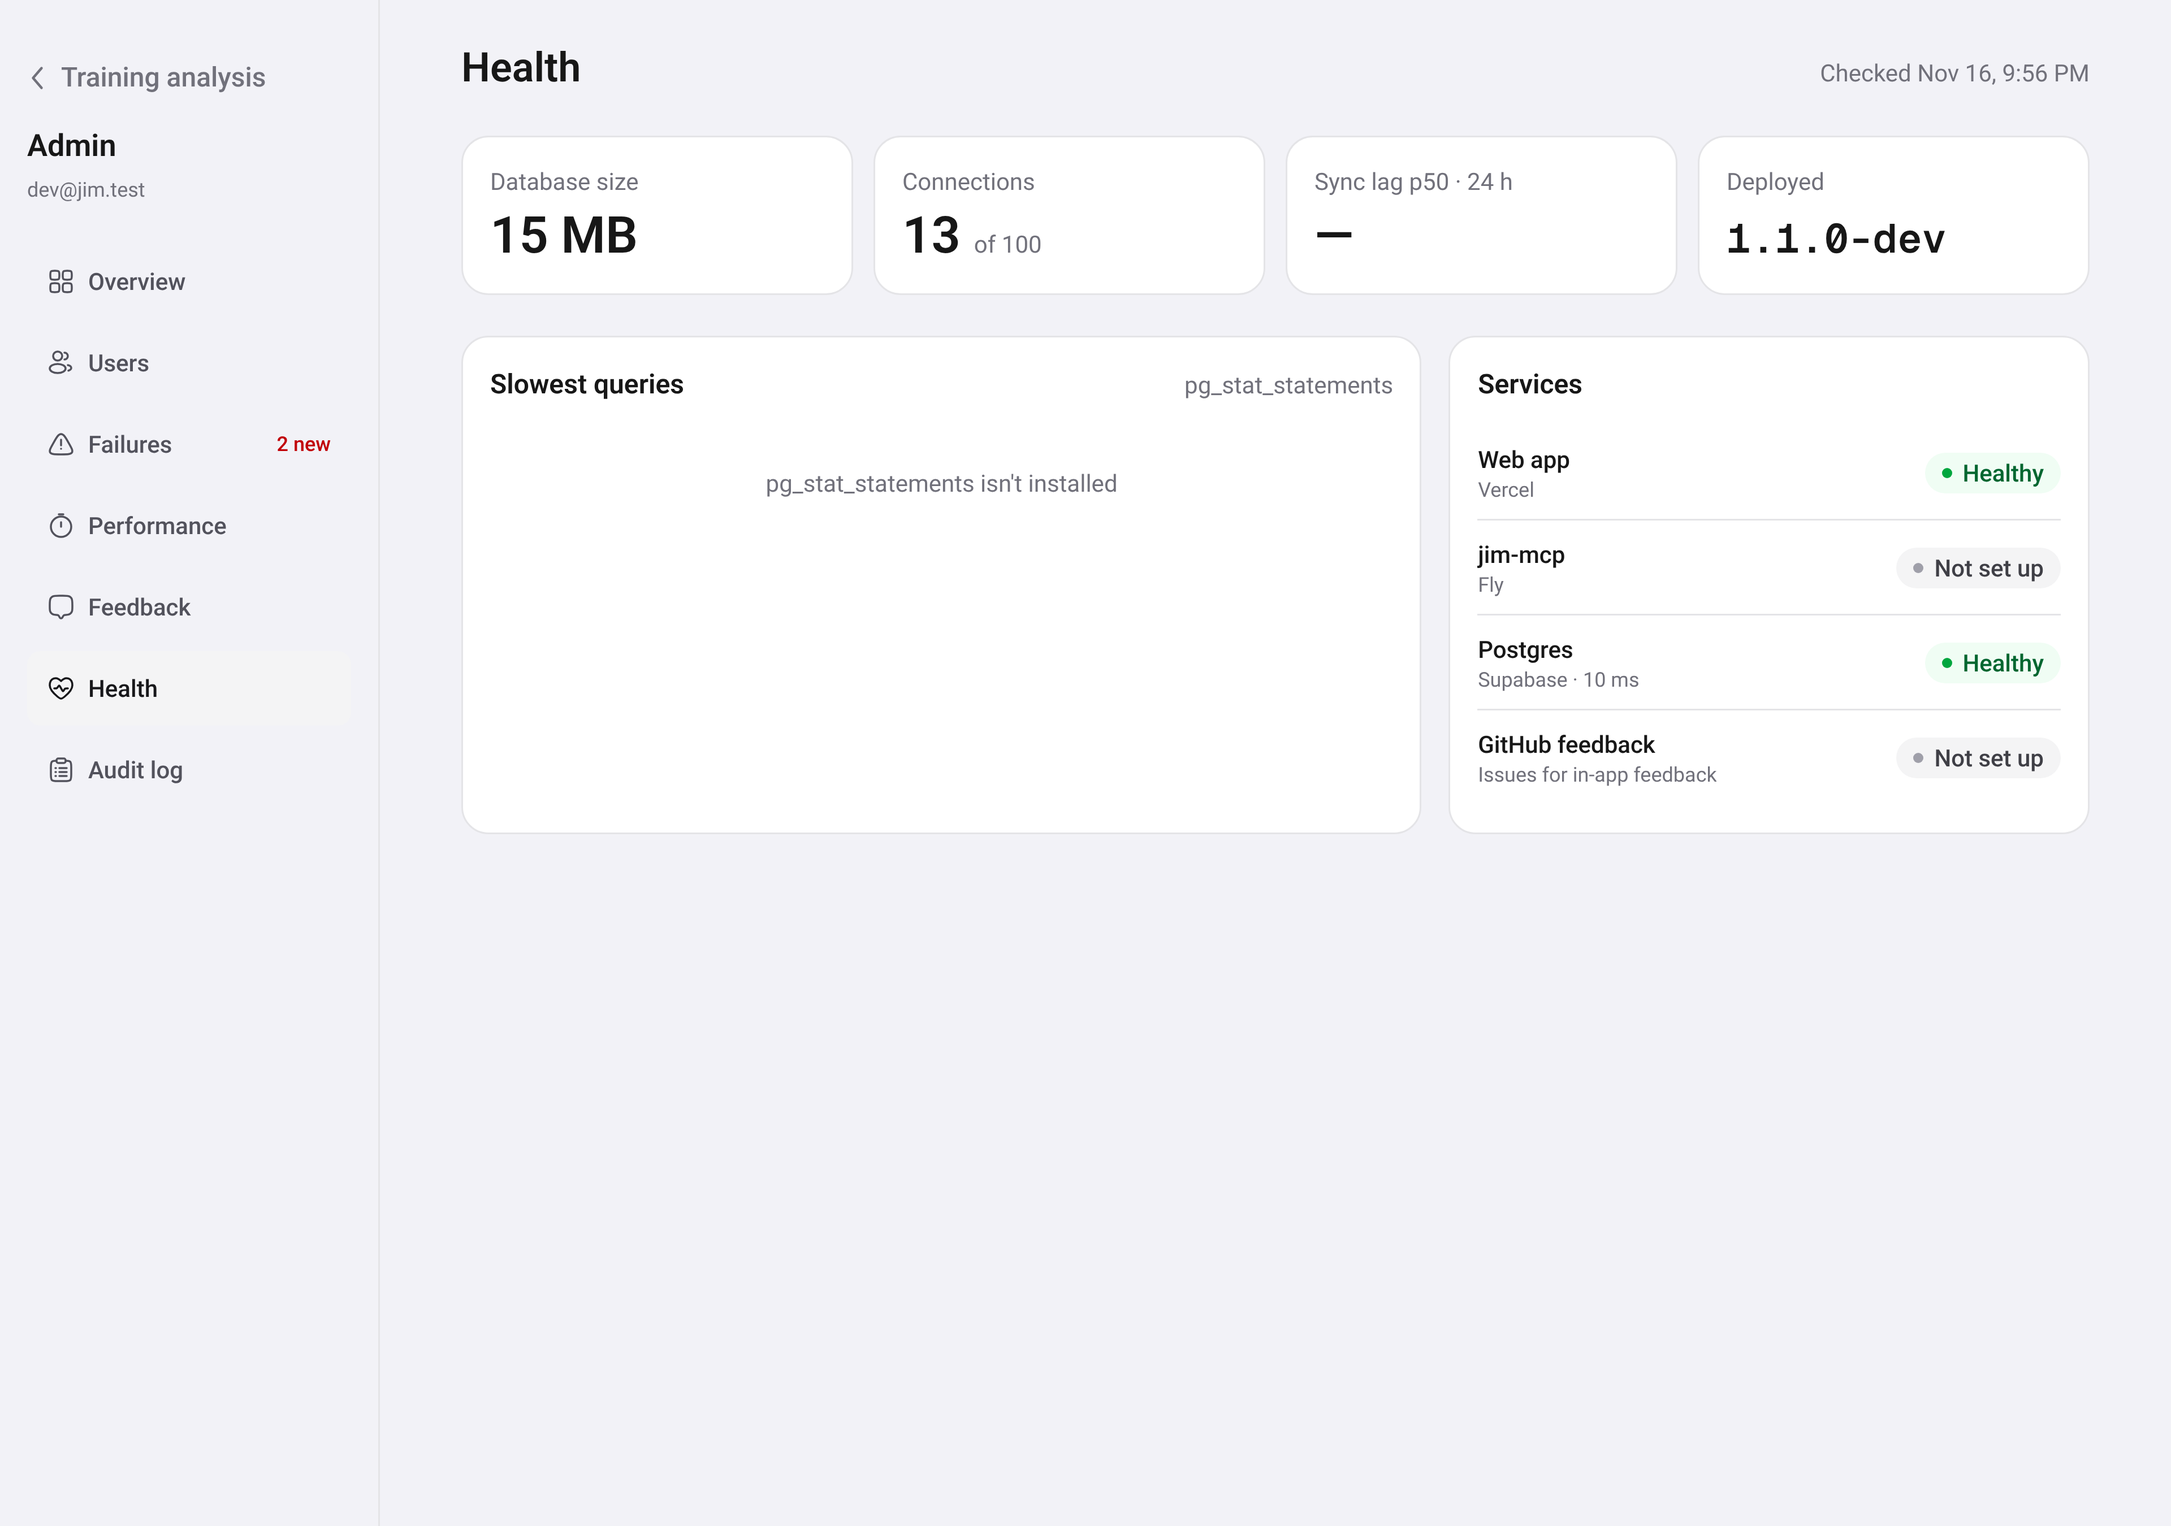
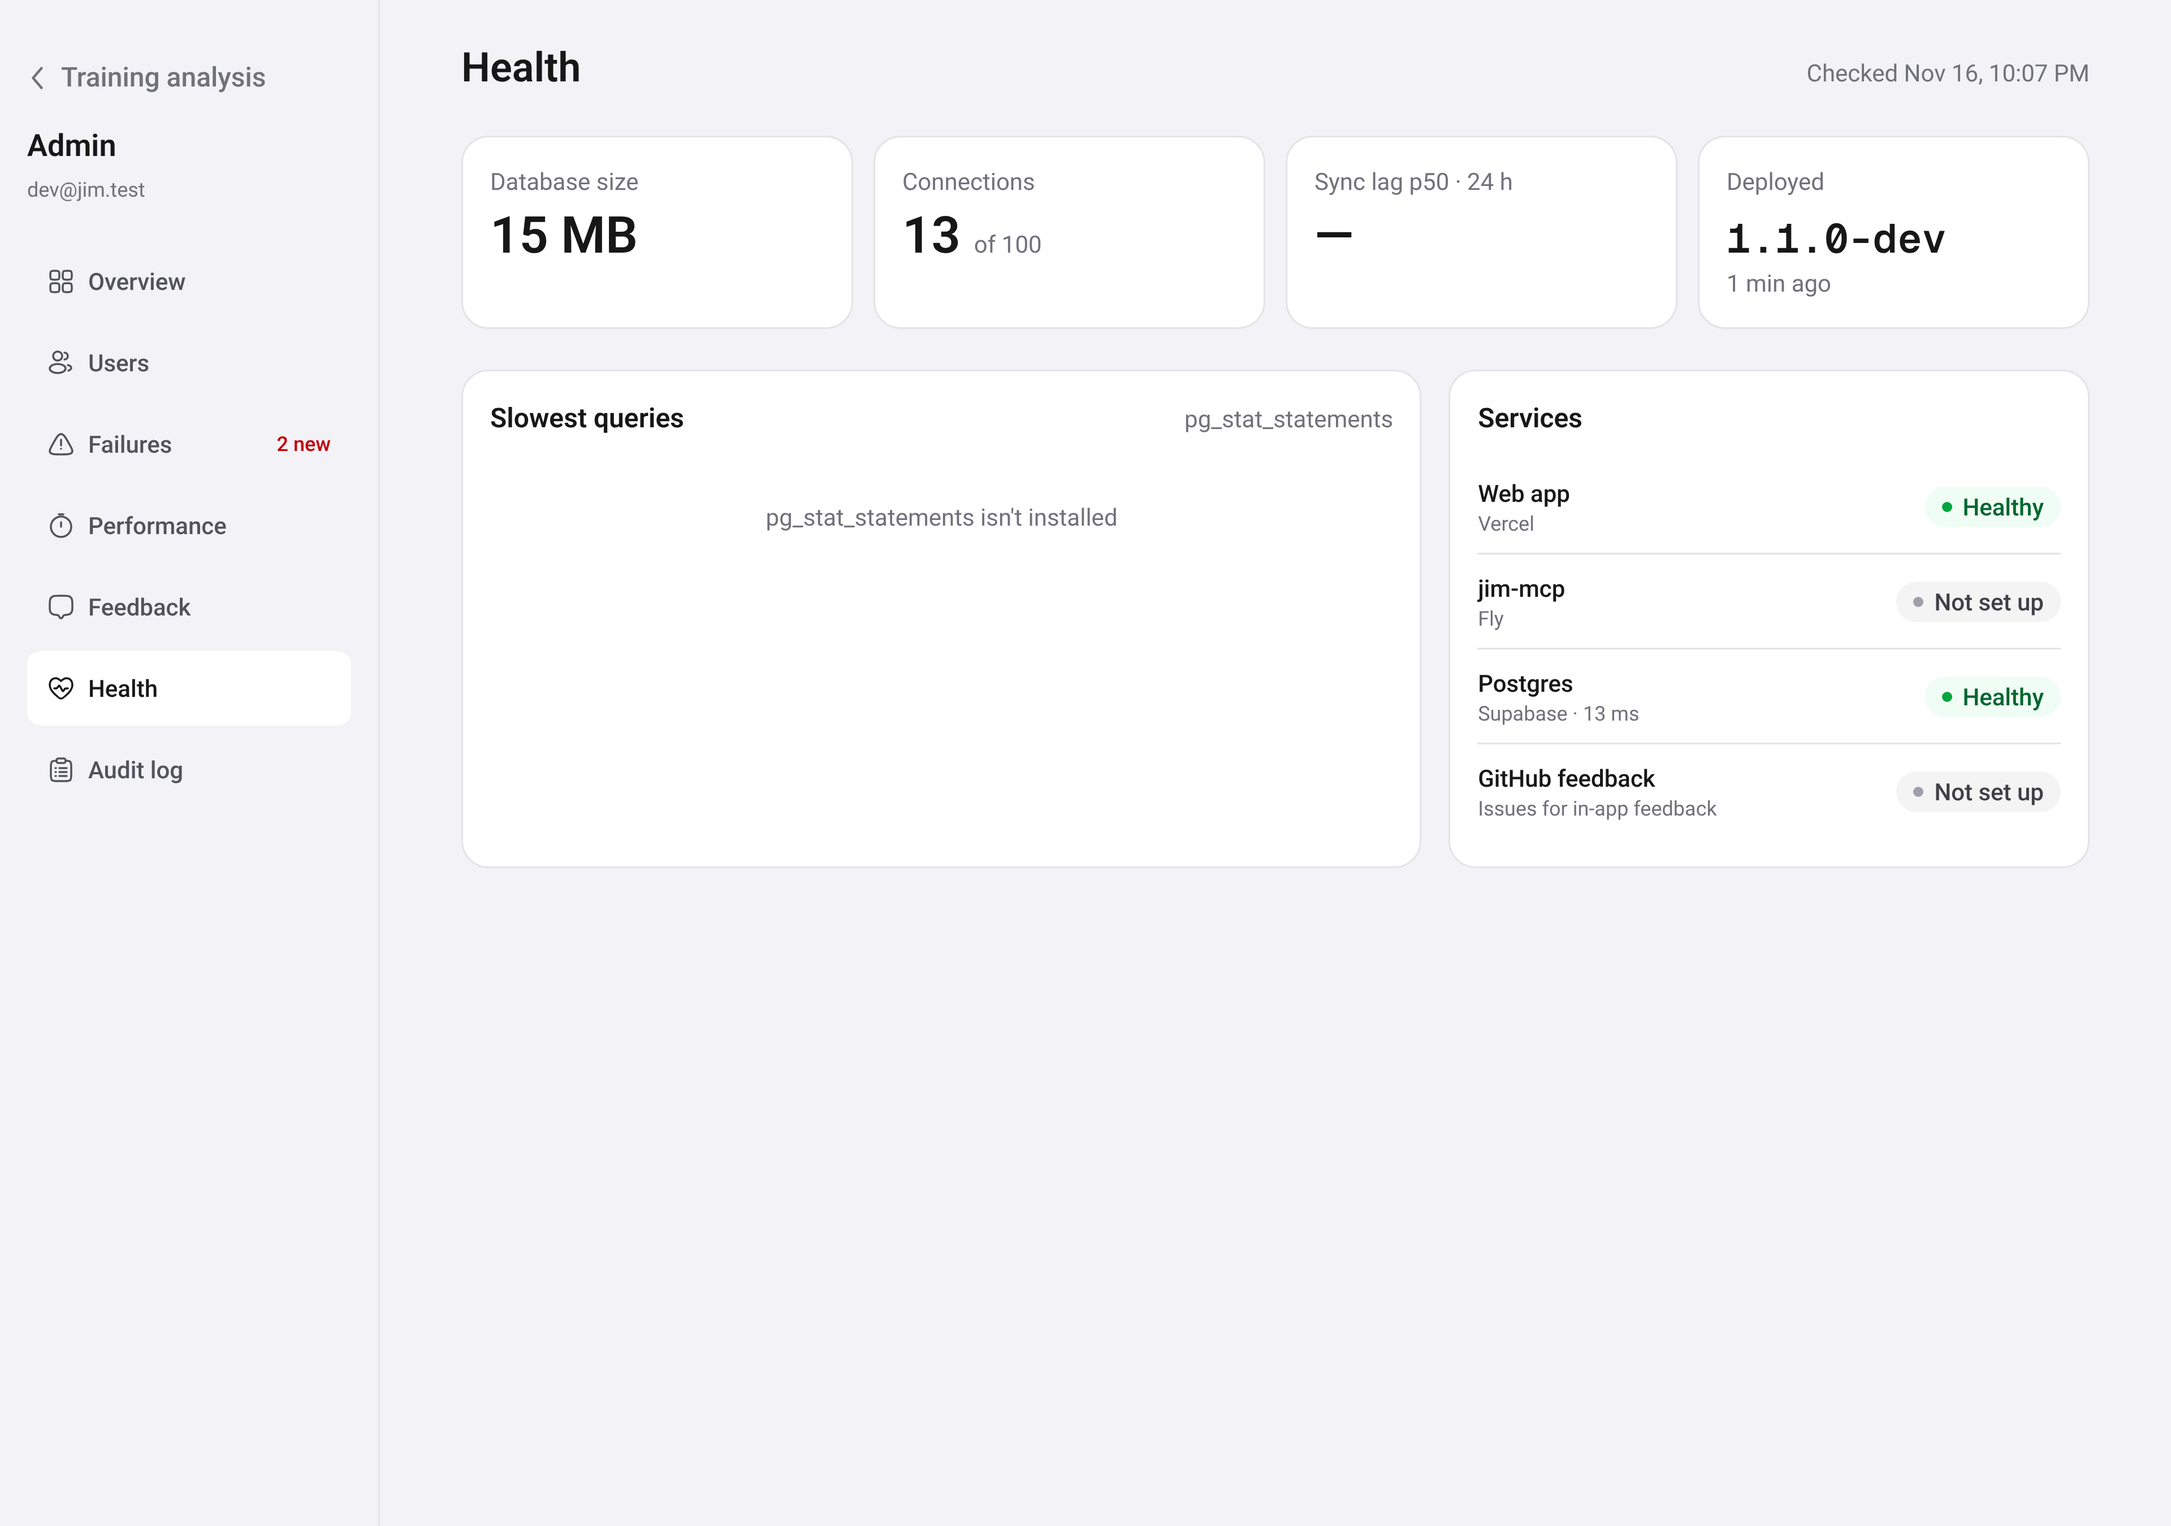
Admin dashboards: review fixes (#810)
Record the open only once the account row exists and in a savepoint, so a
usage count can't fail a sync pull. Add DAU/WAU/MAU, the full user count on
a failure, filters kept on the way back, and the deploy time on Health.

Claude-Session: https://claude.ai/code/session_01SR5G2ZpwwgZmQJhERtt7qa

diff --git a/apps/web/lib/admin/overview-data.ts b/apps/web/lib/admin/overview-data.ts
@@ -25,6 +25,11 @@ export interface OverviewData {
   dailyOpened: number[];
   dailyTrained: number[];
   dailyWorkouts: number[];
+  /** Distinct accounts over the last day, 7 days and 30 days, whatever the range. */
+  actives: {
+    opened: { day: number; week: number; month: number };
+    trained: { day: number; week: number; month: number };
+  };
   /** The version each account opened last, over the last 7 days. */
   versions: VersionShare[];
 }
@@ -80,6 +85,28 @@ export async function loadOverview(
           WHERE deleted_at IS NULL AND ended_at > ${prevStart} AND ended_at <= ${start}) AS workouts_prev
     `),
   );
+  const [active] = rowsOf(
+    await db.execute<Record<string, number | string>>(sql`
+      SELECT
+        (SELECT count(DISTINCT user_id) FROM app_opens
+          WHERE day >= (${nowIso}::timestamptz AT TIME ZONE 'utc')::date) AS opened_day,
+        (SELECT count(DISTINCT user_id) FROM app_opens
+          WHERE day > (${nowIso}::timestamptz - interval '7 days')::date) AS opened_week,
+        (SELECT count(DISTINCT user_id) FROM app_opens
+          WHERE day > (${nowIso}::timestamptz - interval '30 days')::date) AS opened_month,
+        (SELECT count(DISTINCT user_id) FROM sets WHERE deleted_at IS NULL
+          AND completed_at > ${nowIso}::timestamptz - interval '1 day') AS trained_day,
+        (SELECT count(DISTINCT user_id) FROM sets WHERE deleted_at IS NULL
+          AND completed_at > ${nowIso}::timestamptz - interval '7 days') AS trained_week,
+        (SELECT count(DISTINCT user_id) FROM sets WHERE deleted_at IS NULL
+          AND completed_at > ${nowIso}::timestamptz - interval '30 days') AS trained_month
+    `),
+  );
+  const actives = (prefix: "opened" | "trained") => ({
+    day: Number(active?.[`${prefix}_day`] ?? 0),
+    week: Number(active?.[`${prefix}_week`] ?? 0),
+    month: Number(active?.[`${prefix}_month`] ?? 0),
+  });
   const kpi = (name: string): OverviewKpi => ({
     current: Number(kpis?.[name] ?? 0),
     previous: Number(kpis?.[`${name}_prev`] ?? 0),
@@ -132,6 +159,7 @@ export async function loadOverview(
     dailyOpened: fillDays(days, opened),
     dailyTrained: fillDays(days, trained),
     dailyWorkouts: fillDays(days, workouts),
+    actives: { opened: actives("opened"), trained: actives("trained") },
     versions: versionSpread(versions),
   };
 }

diff --git a/apps/web/components/admin/admin-overview.tsx b/apps/web/components/admin/admin-overview.tsx
@@ -97,6 +97,35 @@ export function AdminOverview({
           </AdminCard>
         </div>
         <div className="flex min-w-0 flex-col gap-4">
+          <AdminCard title="Active users">
+            <table className="w-full text-sm">
+              <thead>
+                <tr className="text-xs text-zinc-500">
+                  <th className="pb-2 text-left font-normal">
+                    <span className="sr-only">Measure</span>
+                  </th>
+                  <th className="pb-2 text-right font-normal">DAU</th>
+                  <th className="pb-2 text-right font-normal">WAU</th>
+                  <th className="pb-2 text-right font-normal">MAU</th>
+                </tr>
+              </thead>
+              <tbody>
+                {(
+                  [
+                    ["Opened", data.actives.opened],
+                    ["Trained", data.actives.trained],
+                  ] as const
+                ).map(([label, counts]) => (
+                  <tr key={label} className="border-t border-zinc-200 dark:border-zinc-800">
+                    <td className="py-2">{label}</td>
+                    <td className="py-2 text-right tabular-nums">{NUMBER.format(counts.day)}</td>
+                    <td className="py-2 text-right tabular-nums">{NUMBER.format(counts.week)}</td>
+                    <td className="py-2 text-right tabular-nums">{NUMBER.format(counts.month)}</td>
+                  </tr>
+                ))}
+              </tbody>
+            </table>
+          </AdminCard>
           <AdminCard title="App versions" aside="Last 7 days">
             {data.versions.length === 0 ? (
               <p className="text-sm text-zinc-500">No opens yet</p>

diff --git a/apps/web/lib/admin/failures-data.ts b/apps/web/lib/admin/failures-data.ts
@@ -207,6 +207,8 @@ export interface FailureDetail {
   name: string;
   message: string | null;
   events: number;
+  /** Every account that hit it; `users` lists the top 50. */
+  userCount: number;
   firstSeenAt: string;
   lastSeenAt: string;
   users: { id: string; label: string; events: number }[];
@@ -243,8 +245,13 @@ export async function loadFailureDetail(
   if (!latest) return null;
 
   const [summary] = [
-    ...(await db.execute<{ events: number; first_seen: Date | string; last_seen: Date | string }>(
-      sql`SELECT count(*)::int AS events, min(created_at) AS first_seen, max(created_at) AS last_seen
+    ...(await db.execute<{
+      events: number;
+      users: number;
+      first_seen: Date | string;
+      last_seen: Date | string;
+    }>(
+      sql`SELECT count(*)::int AS events, count(DISTINCT user_id)::int AS users, min(created_at) AS first_seen, max(created_at) AS last_seen
         FROM telemetry_events WHERE fingerprint = ${fingerprint}`,
     )),
   ];
@@ -270,6 +277,7 @@ export async function loadFailureDetail(
     name: latest.name,
     message: latest.message,
     events: Number(summary?.events ?? recent.length),
+    userCount: Number(summary?.users ?? 0),
     firstSeenAt: iso(summary?.first_seen ?? latest.created_at),
     lastSeenAt: iso(summary?.last_seen ?? latest.created_at),
     users: users.map((row) => ({ id: row.id, label: row.label, events: Number(row.events) })),

diff --git a/apps/web/components/admin/admin-failure-detail.tsx b/apps/web/components/admin/admin-failure-detail.tsx
@@ -16,11 +16,18 @@ function extraOf(detail: unknown): string | null {
 }
 
 /** One failure group (issue #810): who hit it, on which versions, and its latest stacks. */
-export function AdminFailureDetail({ detail }: { detail: FailureDetail }) {
+export function AdminFailureDetail({
+  detail,
+  backHref,
+}: {
+  detail: FailureDetail;
+  /** The list with the filters it was opened from. */
+  backHref: string;
+}) {
   return (
     <>
       <Link
-        href="/admin/failures"
+        href={backHref}
         className="-ml-1 flex min-h-11 items-center gap-1 self-start pr-3 text-sm font-medium text-zinc-500"
       >
         <ChevronLeft className="h-4 w-4" strokeWidth={1.75} aria-hidden="true" />
@@ -38,7 +45,7 @@ export function AdminFailureDetail({ detail }: { detail: FailureDetail }) {
       </div>
       <dl className="grid grid-cols-2 gap-4 rounded-2xl border border-zinc-200 bg-white p-4 text-sm md:grid-cols-4 dark:border-zinc-800 dark:bg-zinc-900">
         <Fact label="Events">{detail.events}</Fact>
-        <Fact label="Users">{detail.users.length}</Fact>
+        <Fact label="Users">{detail.userCount}</Fact>
         <Fact label="First seen">
           <LocalDateTime iso={detail.firstSeenAt} />
         </Fact>

diff --git a/apps/web/app/admin/(console)/failures/[fingerprint]/page.tsx b/apps/web/app/admin/(console)/failures/[fingerprint]/page.tsx
@@ -1,12 +1,19 @@
+import { dashboardHref } from "@/components/admin/admin-dashboard-ui";
 import { AdminFailureDetail } from "@/components/admin/admin-failure-detail";
-import { loadFailureDetail } from "@/lib/admin/failures-data";
+import { TELEMETRY_RANGES, pickRange } from "@/lib/admin/dashboard";
+import { loadFailureDetail, pickFailureSource } from "@/lib/admin/failures-data";
 import { requireAdmin } from "@/lib/admin/load-access";
 import { notFound } from "next/navigation";
 
 export default async function AdminFailurePage(props: PageProps<"/admin/failures/[fingerprint]">) {
   await requireAdmin();
-  const { fingerprint } = await props.params;
+  const [{ fingerprint }, searchParams] = await Promise.all([props.params, props.searchParams]);
   const detail = await loadFailureDetail(decodeURIComponent(fingerprint).slice(0, 100));
   if (!detail) notFound();
-  return <AdminFailureDetail detail={detail} />;
+  const range = pickRange(TELEMETRY_RANGES, searchParams.range, "7d");
+  const backHref = dashboardHref("/admin/failures", {
+    source: pickFailureSource(searchParams.source),
+    range: range.id === "7d" ? null : range.id,
+  });
+  return <AdminFailureDetail detail={detail} backHref={backHref} />;
 }

diff --git a/apps/web/lib/admin/__tests__/dashboards.test.ts b/apps/web/lib/admin/__tests__/dashboards.test.ts
@@ -91,6 +91,9 @@ describe.skipIf(!process.env.TEST_DATABASE_URL)("admin dashboards (#810)", () =>
     expect(overview.days).toHaveLength(7);
     expect(overview.days.at(-1)).toBe("2026-11-16");
     expect(overview.dailyOpened).toEqual([0, 0, 0, 1, 0, 1, 1]);
+    expect(overview.actives.opened).toEqual({ day: 1, week: 2, month: 2 });
+    // Her one set was exactly a day ago, so it falls just outside today.
+    expect(overview.actives.trained).toEqual({ day: 0, week: 1, month: 1 });
     expect(overview.dailyTrained).toEqual([0, 0, 0, 0, 0, 1, 0]);
     expect(overview.dailyWorkouts).toEqual([0, 0, 0, 0, 0, 1, 0]);
     // Each account counts once, on the version it opened last.
@@ -120,6 +123,7 @@ describe.skipIf(!process.env.TEST_DATABASE_URL)("admin dashboards (#810)", () =>
   it("opens one group with its users and occurrences", async () => {
     const detail = await loadFailureDetail("old-group", db);
     expect(detail?.events).toBe(3);
+    expect(detail?.userCount).toBe(2);
     expect(detail?.users.map((user) => user.label)).toEqual(["maya", "theo"]);
     expect(detail?.recent).toHaveLength(3);
     expect(await loadFailureDetail("missing", db)).toBeNull();

diff --git a/apps/web/components/admin/admin-health.tsx b/apps/web/components/admin/admin-health.tsx
@@ -9,6 +9,7 @@ import {
   StatusPill,
 } from "./admin-dashboard-ui";
 import { LocalDateTime } from "./local-date-time";
+import { RelativeTime } from "./relative-time";
 
 const NUMBER = new Intl.NumberFormat("en-US");
 
@@ -47,7 +48,16 @@ export function AdminHealth({ health }: { health: HealthData }) {
         <KpiTile
           label="Deployed"
           value={<span className="font-mono text-xl md:text-2xl">{health.deploy.version}</span>}
-          note={health.deploy.commit ?? undefined}
+          note={
+            health.deploy.builtAt ? (
+              <>
+                <RelativeTime iso={health.deploy.builtAt} />
+                {health.deploy.commit ? ` · ${health.deploy.commit}` : ""}
+              </>
+            ) : (
+              (health.deploy.commit ?? undefined)
+            )
+          }
         />
       </KpiGrid>
       <div className="grid min-w-0 gap-4 lg:grid-cols-[minmax(0,3fr)_minmax(0,2fr)]">

diff --git a/apps/web/lib/admin/health-data.ts b/apps/web/lib/admin/health-data.ts
@@ -32,7 +32,7 @@ export interface HealthData {
   connections: { used: number; max: number } | null;
   /** Phone-to-server time of each change synced in the last 24 h. */
   syncLag: { p50: number; p95: number; samples: number } | null;
-  deploy: { version: string; commit: string | null; region: string | null };
+  deploy: { version: string; commit: string | null; region: string | null; builtAt: string | null };
   /** Null when pg_stat_statements isn't installed or readable. */
   slowQueries: SlowQuery[] | null;
   services: ServiceStatus[];
@@ -179,6 +179,7 @@ export async function loadHealth(
       version: APP_VERSION,
       commit: process.env.VERCEL_GIT_COMMIT_SHA?.slice(0, 7) ?? null,
       region,
+      builtAt: process.env.JIM_BUILT_AT ?? null,
     },
     slowQueries,
     services,

diff --git a/apps/web/components/admin/admin-failures.tsx b/apps/web/components/admin/admin-failures.tsx
@@ -105,7 +105,13 @@ export function AdminFailures({
                   >
                     <td className="max-w-md py-2.5 pr-4">
                       <Link
-                        href={`/admin/failures/${encodeURIComponent(group.fingerprint)}`}
+                        href={dashboardHref(
+                          `/admin/failures/${encodeURIComponent(group.fingerprint)}`,
+                          {
+                            source,
+                            range: rangeParam,
+                          },
+                        )}
                         className="block min-w-0 underline-offset-2 hover:underline"
                       >
                         <span className="block truncate font-mono text-[13px]">

diff --git a/apps/web/app/api/sync/pull/route.ts b/apps/web/app/api/sync/pull/route.ts
@@ -147,7 +147,15 @@ export async function GET(request: Request) {
           })
           .from(users)
           .where(eq(users.id, userId));
-        await recordOpen(tx, userId, version);
+        // Only once the account row exists (it's created lazily), and in a
+        // savepoint: an admin usage count must never fail a sync.
+        if (account) {
+          await tx
+            .transaction((sp) => recordOpen(sp, userId, version))
+            .catch((error: unknown) => {
+              console.error("[sync] recording the open failed:", error);
+            });
+        }
         const commands = account
           ? {
               userId: account.userId,

diff --git a/apps/web/next.config.ts b/apps/web/next.config.ts
@@ -7,6 +7,8 @@ export default async function config(): Promise<NextConfig> {
     env: {
       // Shown on Profile and attached to feedback — see lib/version/resolve.ts.
       NEXT_PUBLIC_APP_VERSION: await resolveAppVersion({ base: versionBase, cwd: process.cwd() }),
+      // When this build ran, for the admin Health page's last deploy (#810).
+      JIM_BUILT_AT: new Date().toISOString(),
     },
     experimental: {
       // The (shell) pages are all dynamic (auth check reads cookies), so by
